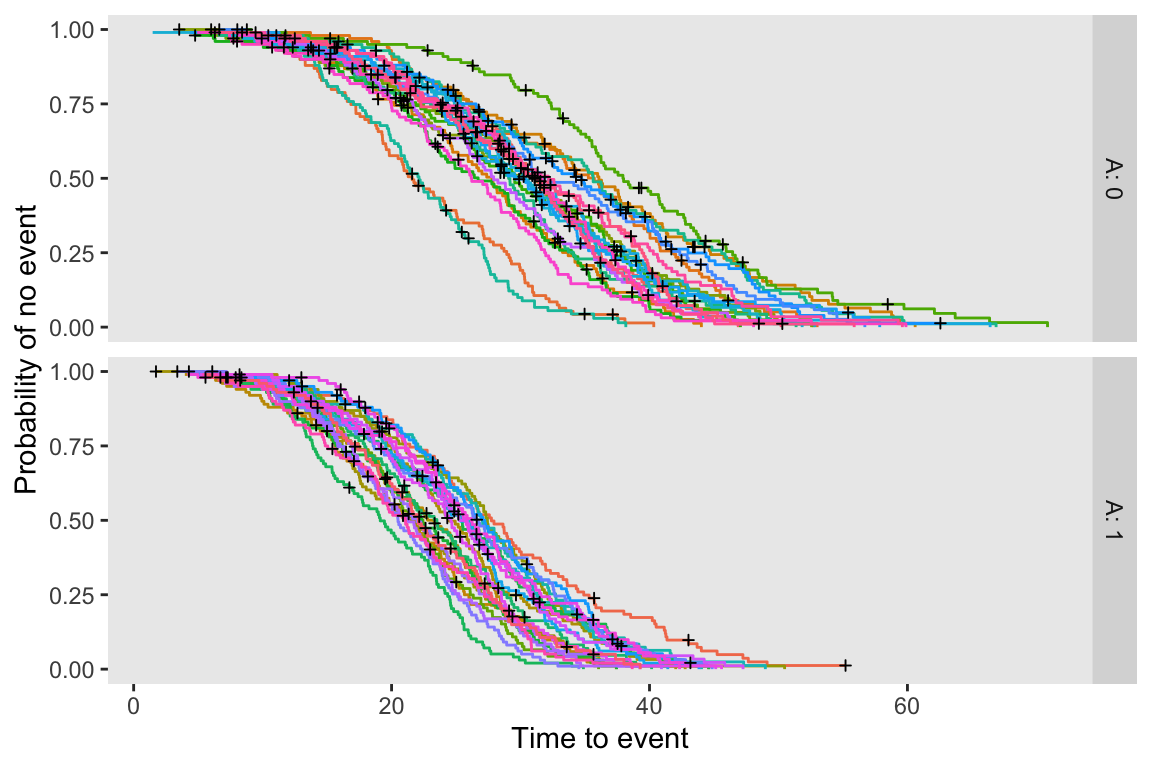
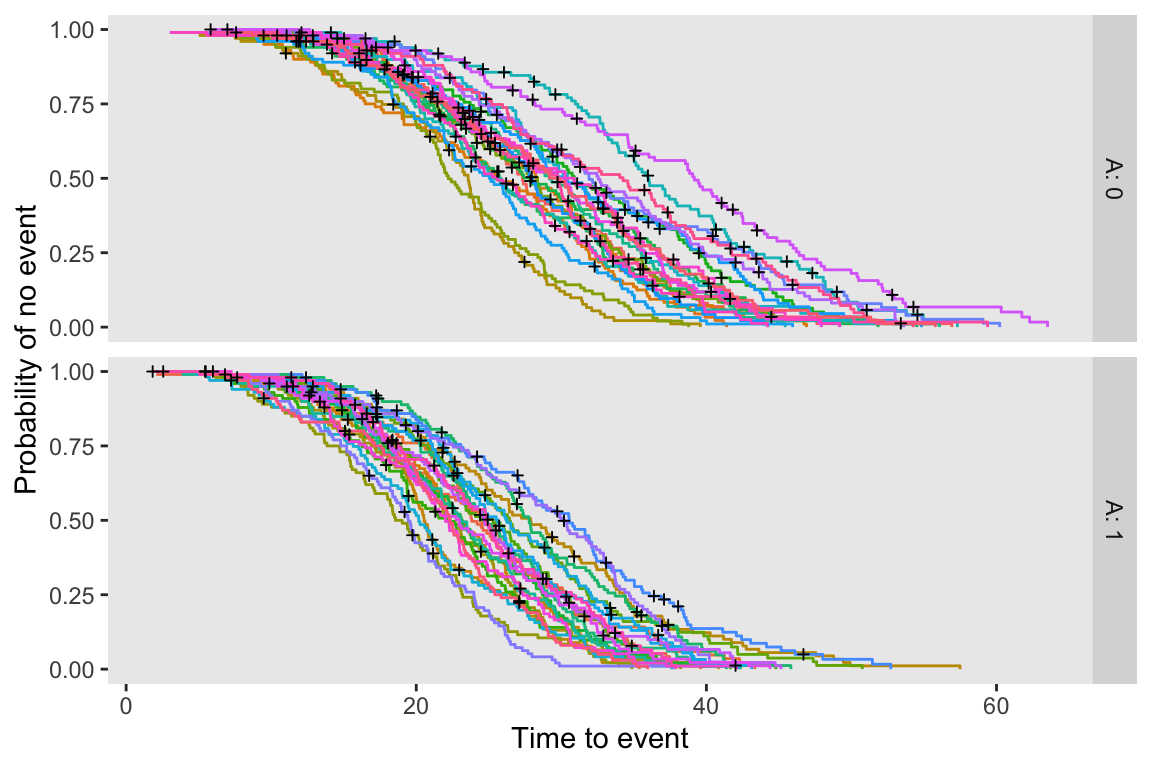
Updating draft, and fixing typo

diff --git a/content/post/2025-03-25-a-bayesian-proportional-hazards-model-for-a-cluster-randomized-trial/index.en.html b/content/post/2025-03-25-a-bayesian-proportional-hazards-model-for-a-cluster-randomized-trial/index.en.html
@@ -16,7 +16,7 @@ draft: TRUE
 
 
 
-<p>In the two previous posts, I <a href="https://www.rdatagen.net/post/2025-02-11-estimating-a-bayesian-proportional-hazards-model/" target="_blank">introduced</a> a Bayesian approach to proportional hazards modeling and then <a href="https://www.rdatagen.net/post/2025-03-04-a-bayesian-proportional-hazards-model-with-splines/" target="_blank">extended</a> it to incorporate a penalized spline. This post describes a second addition to the original model by introducing a random effect to account for clustering in a cluster randomized trial. With this in place, I’ll be ready to tackle the final step: building a model for analyzing a stepped-wedge cluster-randomized trial that incorporates both splines and site-specific random effects.</p>
+<p>In recent posts, I <a href="https://www.rdatagen.net/post/2025-02-11-estimating-a-bayesian-proportional-hazards-model/" target="_blank">introduced</a> a Bayesian approach to proportional hazards modeling and then <a href="https://www.rdatagen.net/post/2025-03-04-a-bayesian-proportional-hazards-model-with-splines/" target="_blank">extended</a> it to incorporate a penalized spline. (There was also a third <a href="https://www.rdatagen.net/post/2025-03-20-bayesian-survival-model-that-can-appropriately-handle-ties/" target="_blank">post</a> on handling ties when multiple individuals share the same event time.) This post describes another extension: a random effect to account for clustering in a cluster randomized trial. With this in place, I’ll be ready to tackle the final step—building a model for analyzing a stepped-wedge cluster-randomized trial that incorporates both splines and site-specific random effects.</p>
 <div id="simulating-data-with-a-cluster-specific-random-effect" class="section level3">
 <h3>Simulating data with a cluster-specific random effect</h3>
 <p>Here are the <code>R</code> packages used in the post:</p>
@@ -41,7 +41,7 @@ defS &lt;-
 <pre class="r"><code>delta_f &lt;- 0.7
 s2_b &lt;- 0.4^2</code></pre>
 <p>I’ve generated a single data set of 50 sites, with 25 in each arm. Each site includes 100 patients. The plot below shows the site-specific Kaplan-Meier curves for each intervention arm.</p>
-<pre class="r"><code>set.seed(7369)
+<pre class="r"><code>set.seed(1821)
 
 dc &lt;- genData(50, defC, id = &quot;site&quot;)
 dd &lt;- genCluster(dc, &quot;site&quot;, numIndsVar = 100, level1ID = &quot;id&quot;)
@@ -51,11 +51,19 @@ dd &lt;- genSurv(dd, defS, timeName = &quot;Y&quot;, censorName = &quot;censorTi
 </div>
 <div id="bayesian-model" class="section level3">
 <h3>Bayesian model</h3>
-<p>Since this is the third iteration of the Bayesian proportional hazards model, it naturally also builds directly on the approach from my previous two posts (<a href="https://www.rdatagen.net/post/2025-02-11-estimating-a-bayesian-proportional-hazards-model/" target="_blank">here</a> and <a href="https://www.rdatagen.net/post/2025-03-04-a-bayesian-proportional-hazards-model-with-splines/" target="_blank">here</a>). Now, the partial likelihood is a function of the treatment effect and cluster-specific random effects, given by:</p>
+<p>Since this is the fourth iteration of the Bayesian proportional hazards model I’ve been working on, it naturally builds directly on the approach from my previous three posts (<a href="https://www.rdatagen.net/post/2025-02-11-estimating-a-bayesian-proportional-hazards-model/" target="_blank">here</a>. <a href="https://www.rdatagen.net/post/2025-03-04-a-bayesian-proportional-hazards-model-with-splines/" target="_blank">here</a>, and <a href="https://www.rdatagen.net/post/2025-03-20-bayesian-survival-model-that-can-appropriately-handle-ties/" target="_blank">here</a>). Now, the partial log likelihood is a function of the treatment effect and cluster-specific random effects, given by:</p>
 <p><span class="math display">\[
-L(\beta,\mathbf{b}) = \prod_{i=1}^{N} \left( \frac{\exp \left(\beta A_i + b_{s[i]} \right)} {\sum_{j \in R(t_i)} \exp\left(\beta A_j + b_{s[j]} \right) } \right)^{\delta_i}
-\]</span>
-where:</p>
+\log L(\beta) = \sum_{j=1}^{J} \left[ \sum_{i \in D_j}  \left(\beta A_i + b_{s[i]} \right) - \sum_{r=0}^{d_j-1} \log \left( \sum_{k \in R_j}  \left(\beta A_k + b_{s[k]} \right) - r \cdot \bar{w}_j \right) \right] \\
+\]</span></p>
+<ul>
+<li><span class="math inline">\(D_j\)</span> is the set of individuals who experience an event at time <span class="math inline">\(t_j\)</span>.</li>
+<li><span class="math inline">\(R_j\)</span> is the risk set at time <span class="math inline">\(t_j\)</span>, including all individuals who are still at risk at that time.</li>
+<li><span class="math inline">\(d_j\)</span> is the number of events occurring at time <span class="math inline">\(t_j\)</span>.</li>
+<li><span class="math inline">\(r\)</span> ranges from 0 to <span class="math inline">\(d_j - 1\)</span>, iterating over the tied events.</li>
+<li><span class="math inline">\(\bar{w}_j\)</span> represents the average risk weight of individuals experiencing an event at <span class="math inline">\(t_j\)</span>:</li>
+</ul>
+<p><span class="math display">\[\bar{w}_j = \frac{1}{d_j} \sum_{i \in D_j}  \left(\beta A_i + b_{s[i]} \right)\]</span></p>
+<p>where:</p>
 <ul>
 <li><span class="math inline">\(N\)</span>: number of observations (censored or not)</li>
 <li><span class="math inline">\(A_i\)</span>: binary indicator for treatment</li>
@@ -74,42 +82,25 @@ b_i &amp;\sim N(0,\sigma_b) \\
 \]</span></p>
 <pre class="r"><code>stan_code &lt;- 
 &quot;
-functions {
-
-  // Binary search optimized to return the last index with the target value
-
-  int binary_search(vector v, real tar_val) {
-    int low = 1;
-    int high = num_elements(v);
-    int result = -1;
-
-    while (low &lt;= high) {
-      int mid = (low + high) %/% 2;
-      if (v[mid] == tar_val) {
-        result = mid; // Store the index
-        high = mid - 1; // Look for earlier occurrences
-      } else if (v[mid] &lt; tar_val) {
-        low = mid + 1;
-      } else {
-        high = mid - 1;
-      }
-    }
-    return result;
-  }
-}
-
 data {
   
   int&lt;lower=0&gt; S;                   // Number of clusters
 
   int&lt;lower=0&gt; K;                   // Number of covariates
   int&lt;lower=0&gt; N_o;                 // Number of uncensored observations
-  vector[N_o] t_o;                  // Event times (sorted in decreasing order)
+  array[N_o] int i_o;               // Index in data set
 
   int&lt;lower=0&gt; N;                   // Number of total observations
-  vector[N] t;                      // Individual times (sorted in decreasing order)
   matrix[N, K] x;                   // Covariates for all observations
   array[N] int&lt;lower=1,upper=S&gt; s;  // Cluster for each observation
+  
+  array[N] int index;
+  
+  int&lt;lower=0&gt; T;            // Number of records as ties
+  int&lt;lower=1&gt; G;            // Number of groups of ties
+  array[T] int t_grp;        // Indicating tie group
+  array[T] int t_index;      // Index in data set
+  vector[T] t_adj;           // Adjustment for ties (efron)
 
 }
 
@@ -133,54 +124,81 @@ model {
   
   vector[N] theta;
   vector[N] log_sum_exp_theta;
+  vector[G] exp_theta_grp = rep_vector(0, G);
+  
+  int first_in_grp;
+
   
   for (i in 1:N) {
     theta[i] = dot_product(x[i], beta) + b[s[i]];  
   }
   
-  // Compute cumulative sum of log(exp(theta)) from last to first observation
+  // Computing cumulative sum of log(exp(theta)) from last to first observation
   
   log_sum_exp_theta[N] = theta[N];
   
-  for (i in tail(sort_indices_desc(t), N-1)) {
+  for (i in tail(sort_indices_desc(index), N-1)) {
     log_sum_exp_theta[i] = log_sum_exp(theta[i], log_sum_exp_theta[i + 1]);
   }
 
-  // Likelihood for uncensored observations
+  // Efron algorithm - adjusting cumulative sum for ties
   
+  for (i in 1:T) {
+    exp_theta_grp[t_grp[i]] += exp(theta[t_index[i]]);
+  }
+
+  for (i in 1:T) {
+  
+    if (t_adj[i] == 0) {
+      first_in_grp = t_index[i];
+    }
+
+    log_sum_exp_theta[t_index[i]] =
+      log( exp(log_sum_exp_theta[first_in_grp]) - t_adj[i] * exp_theta_grp[t_grp[i]]);
+  }
+  
+  // Likelihood for uncensored observations
+
   for (n_o in 1:N_o) {
-    int start_risk = binary_search(t, t_o[n_o]); // Use binary search
-    
-    real log_denom = log_sum_exp_theta[start_risk];
-    target += theta[start_risk] - log_denom;
+    target += theta[i_o[n_o]] - log_sum_exp_theta[i_o[n_o]];
   }
 }
 &quot;</code></pre>
 <p>Getting the data ready to pass to <code>Stan</code>, compiling the <code>Stan</code> code, and sampling from the model using <code>cmdstanr</code>:</p>
 <pre class="r"><code>dx &lt;- copy(dd)
 setorder(dx, Y)
+dx[, index := .I]
 
 dx.obs &lt;- dx[event == 1]
 N_obs &lt;- dx.obs[, .N]
-t_obs &lt;- dx.obs[, Y]
+i_obs &lt;- dx.obs[, index]
 
 N_all &lt;- dx[, .N]
-t_all &lt;- dx[, Y]
 x_all &lt;- data.frame(dx[, .(A)])
 s_all &lt;- dx[, site]
 
 K &lt;- ncol(x_all)                 # num covariates - in this case just A
 S &lt;- dx[, length(unique(site))]
 
+ties &lt;- dx[, .N, keyby = Y][N&gt;1, .(grp = .I, Y)]
+ties &lt;- merge(ties, dx, by = &quot;Y&quot;)
+ties &lt;- ties[, order := 1:.N, keyby = grp][, .(grp, index)]
+ties[, adj := 0:(.N-1)/.N, keyby = grp]
+
 stan_data &lt;- list(
   S = S,
   K = K,
   N_o = N_obs,
-  t_o = t_obs,
+  i_o = i_obs,
   N = N_all,
-  t = t_all,
   x = x_all,
-  s = s_all
+  s = s_all,
+  index = dx$index,
+  T = nrow(ties),
+  G = max(ties$grp),
+  t_grp = ties$grp,
+  t_index = ties$index,
+  t_adj = ties$adj
 )
 
 # compiling code
@@ -191,6 +209,7 @@ stan_model &lt;- cmdstan_model(write_stan_file(stan_code))
 
 fit &lt;- stan_model$sample(
   data = stan_data,
+  seed = 1234, 
   iter_warmup = 1000,
   iter_sampling = 4000,
   chains = 4,
@@ -198,20 +217,20 @@ fit &lt;- stan_model$sample(
   refresh = 0
 )</code></pre>
 <pre><code>## Running MCMC with 4 parallel chains...</code></pre>
-<pre><code>## Chain 2 finished in 54.0 seconds.
-## Chain 1 finished in 54.2 seconds.
-## Chain 4 finished in 54.5 seconds.
-## Chain 3 finished in 55.2 seconds.
+<pre><code>## Chain 2 finished in 40.6 seconds.
+## Chain 3 finished in 40.6 seconds.
+## Chain 1 finished in 41.0 seconds.
+## Chain 4 finished in 41.1 seconds.
 ## 
 ## All 4 chains finished successfully.
-## Mean chain execution time: 54.5 seconds.
-## Total execution time: 55.3 seconds.</code></pre>
+## Mean chain execution time: 40.8 seconds.
+## Total execution time: 41.2 seconds.</code></pre>
 <p>The posterior mean for <span class="math inline">\(\beta\)</span>, the treatment effect, is quite close to the “true” value of 0.70, as is the estimate of the standard deviation of the random effect (we used <span class="math inline">\(sd = 0.4\)</span> in the data generating process):</p>
 <pre class="r"><code>fit$summary(variables = c(&quot;beta&quot;, &quot;sigma_b&quot;))</code></pre>
 <pre><code>## # A tibble: 2 × 10
 ##   variable  mean median     sd    mad    q5   q95  rhat ess_bulk ess_tail
 ##   &lt;chr&gt;    &lt;dbl&gt;  &lt;dbl&gt;  &lt;dbl&gt;  &lt;dbl&gt; &lt;dbl&gt; &lt;dbl&gt; &lt;dbl&gt;    &lt;dbl&gt;    &lt;dbl&gt;
-## 1 beta[1]  0.742  0.739 0.117  0.116  0.551 0.934  1.00    1712.    3498.
-## 2 sigma_b  0.399  0.396 0.0451 0.0443 0.331 0.479  1.00   19728.   12151.</code></pre>
+## 1 beta[1]  0.659  0.660 0.124  0.124  0.455 0.863  1.00    1529.    3265.
+## 2 sigma_b  0.417  0.413 0.0472 0.0458 0.347 0.501  1.00   15493.   11171.</code></pre>
 <p>The final post in this series will include code to simulate data from a stepped-wedge cluster-randomized trial with a time-to-event outcome. This model will integrate both the spline and random effect components. I’m curious to see how well it performs, as the required computational resources could be substantial.</p>
 </div>

diff --git a/content/post/2025-03-20-bayesian-survival-model-that-can-appropriately-handle-ties/index.en.html b/content/post/2025-03-20-bayesian-survival-model-that-can-appropriately-handle-ties/index.en.html
@@ -34,16 +34,16 @@ Finally, these <a href="https://www.google.com/url?sa=t&amp;source=web&amp;rct=j
 <h3>Implementing the Efron method</h3>
 <p>Since the <em>Efron</em> method generally provides better estimates, I chose to incorporate this into the Bayesian model. The partial likelihood under this approach is</p>
 <p><span class="math display">\[
-\log L(\beta) = \sum_{j=1}^{J} \left[ \sum_{i \in D_j} x_i^\top \beta - \sum_{r=0}^{d_j-1} \log \left( \sum_{k \in R_j} \exp(x_k^\top \beta) - r \cdot \bar{w} \right) \right] \\
+\log L(\beta) = \sum_{j=1}^{J} \left[ \sum_{i \in D_j} x_i^\top \beta - \sum_{r=0}^{d_j-1} \log \left( \sum_{k \in R_j} \exp(x_k^\top \beta) - r \cdot \bar{w}_j \right) \right] \\
 \]</span></p>
 <ul>
 <li><span class="math inline">\(D_j\)</span> is the set of individuals who experience an event at time <span class="math inline">\(t_j\)</span>.</li>
 <li><span class="math inline">\(R_j\)</span> is the risk set at time <span class="math inline">\(t_j\)</span>, including all individuals who are still at risk at that time.</li>
 <li><span class="math inline">\(d_j\)</span> is the number of events occurring at time <span class="math inline">\(t_j\)</span>.</li>
 <li><span class="math inline">\(r\)</span> ranges from 0 to <span class="math inline">\(d_j - 1\)</span>, iterating over the tied events.</li>
-<li><span class="math inline">\(\bar{w}\)</span> represents the average risk weight of individuals experiencing an event at <span class="math inline">\(t_j\)</span>:</li>
+<li><span class="math inline">\(\bar{w}_j\)</span> represents the average risk weight of individuals experiencing an event at <span class="math inline">\(t_j\)</span>:</li>
 </ul>
-<p><span class="math display">\[\bar{w} = \frac{1}{d_j} \sum_{i \in D_j} \exp(x_i^\top \beta)\]</span></p>
+<p><span class="math display">\[\bar{w}_j = \frac{1}{d_j} \sum_{i \in D_j} \exp(x_i^\top \beta)\]</span></p>
 <p>The key idea here is that instead of treating all tied events as occurring simultaneously with the full risk set (as in Breslow’s method), <em>Efron</em> gradually reduces the risk set as each tied event is considered. This provides a more refined approximation of the true likelihood, particularly when ties are common.</p>
 <p>In case a simple numerical example is helpful, here is a toy example of 15 individuals, where three share a common event time of 14 days (shown as <span class="math inline">\(Y\)</span>), and two share an event time of 25 days. The critical feature of the <em>Efron</em> correction is that <span class="math inline">\(\bar{w}\)</span> is computed by averaging <span class="math inline">\(\text{exp}(\theta)\)</span> across the group experiencing the event at a given time.</p>
 <p>Initially, the cumulative sum of <span class="math inline">\(\text{exp}(\theta)\)</span> for each individual in the group is identical. However, as each event in the tied group is processed sequentially, the risk set is dynamically updated, and the contribution from individuals who have already been accounted for is gradually reduced. This is reflected in the term <span class="math inline">\(Z = U-V\)</span>, where <span class="math inline">\(U\)</span> represents the initial total risk weight and <span class="math inline">\(V\)</span> accounts for the incremental reduction as ties are processed.</p>
